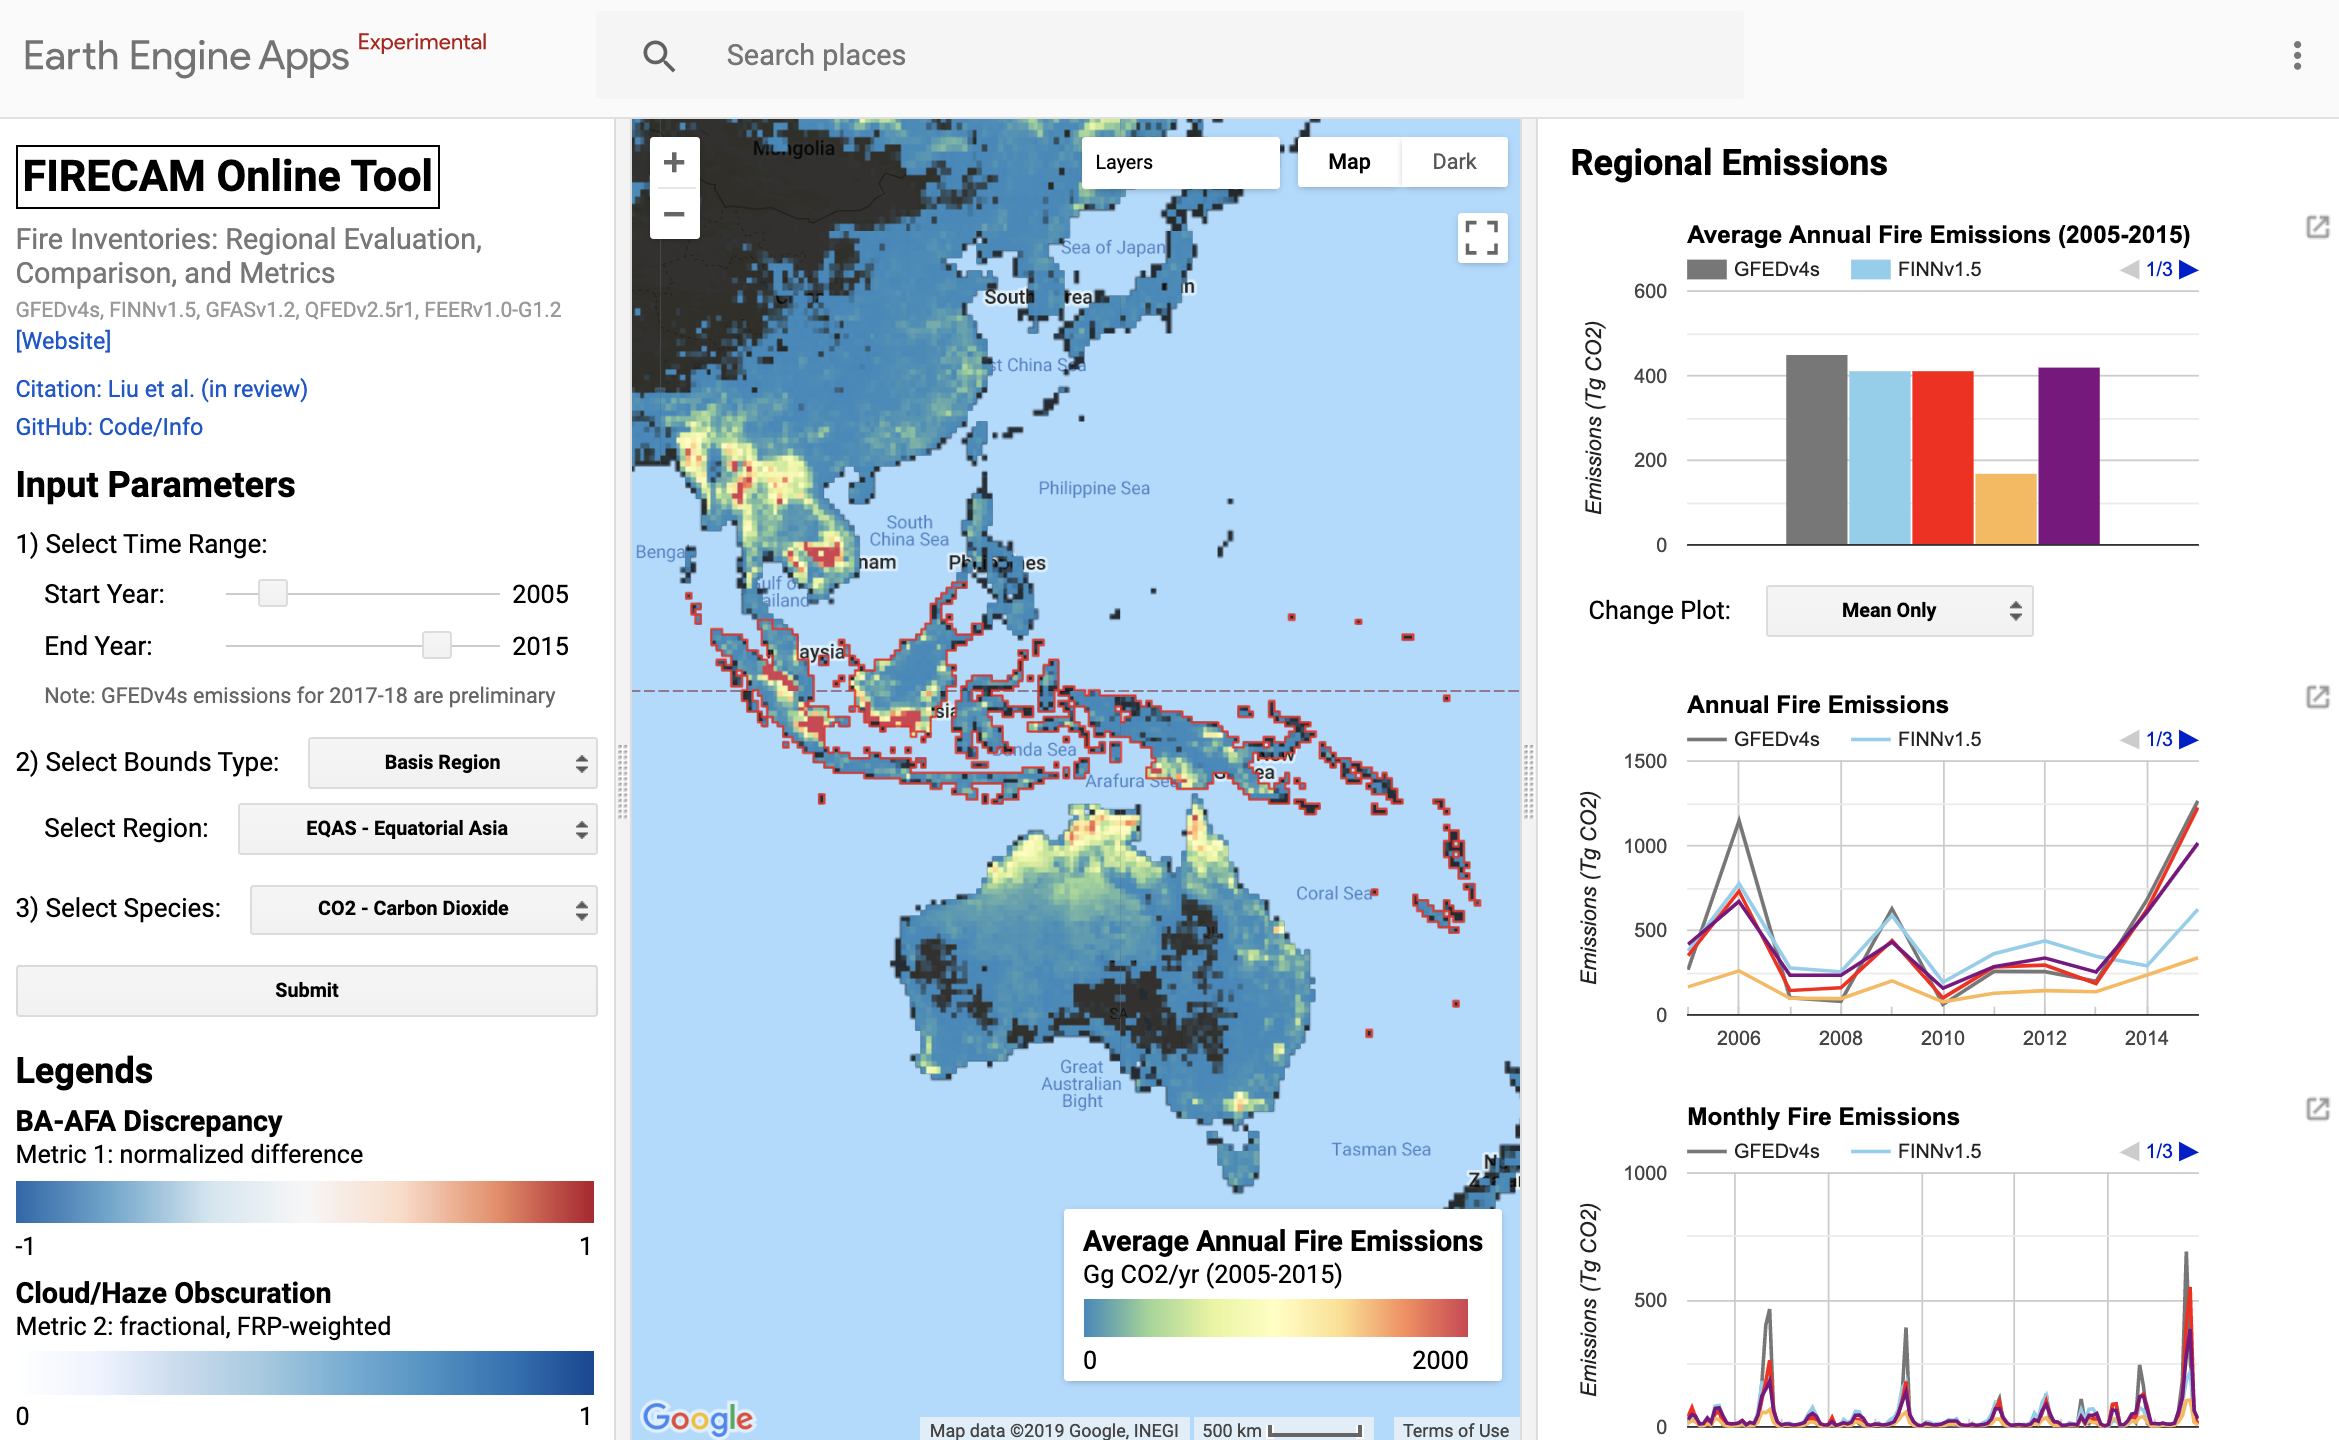
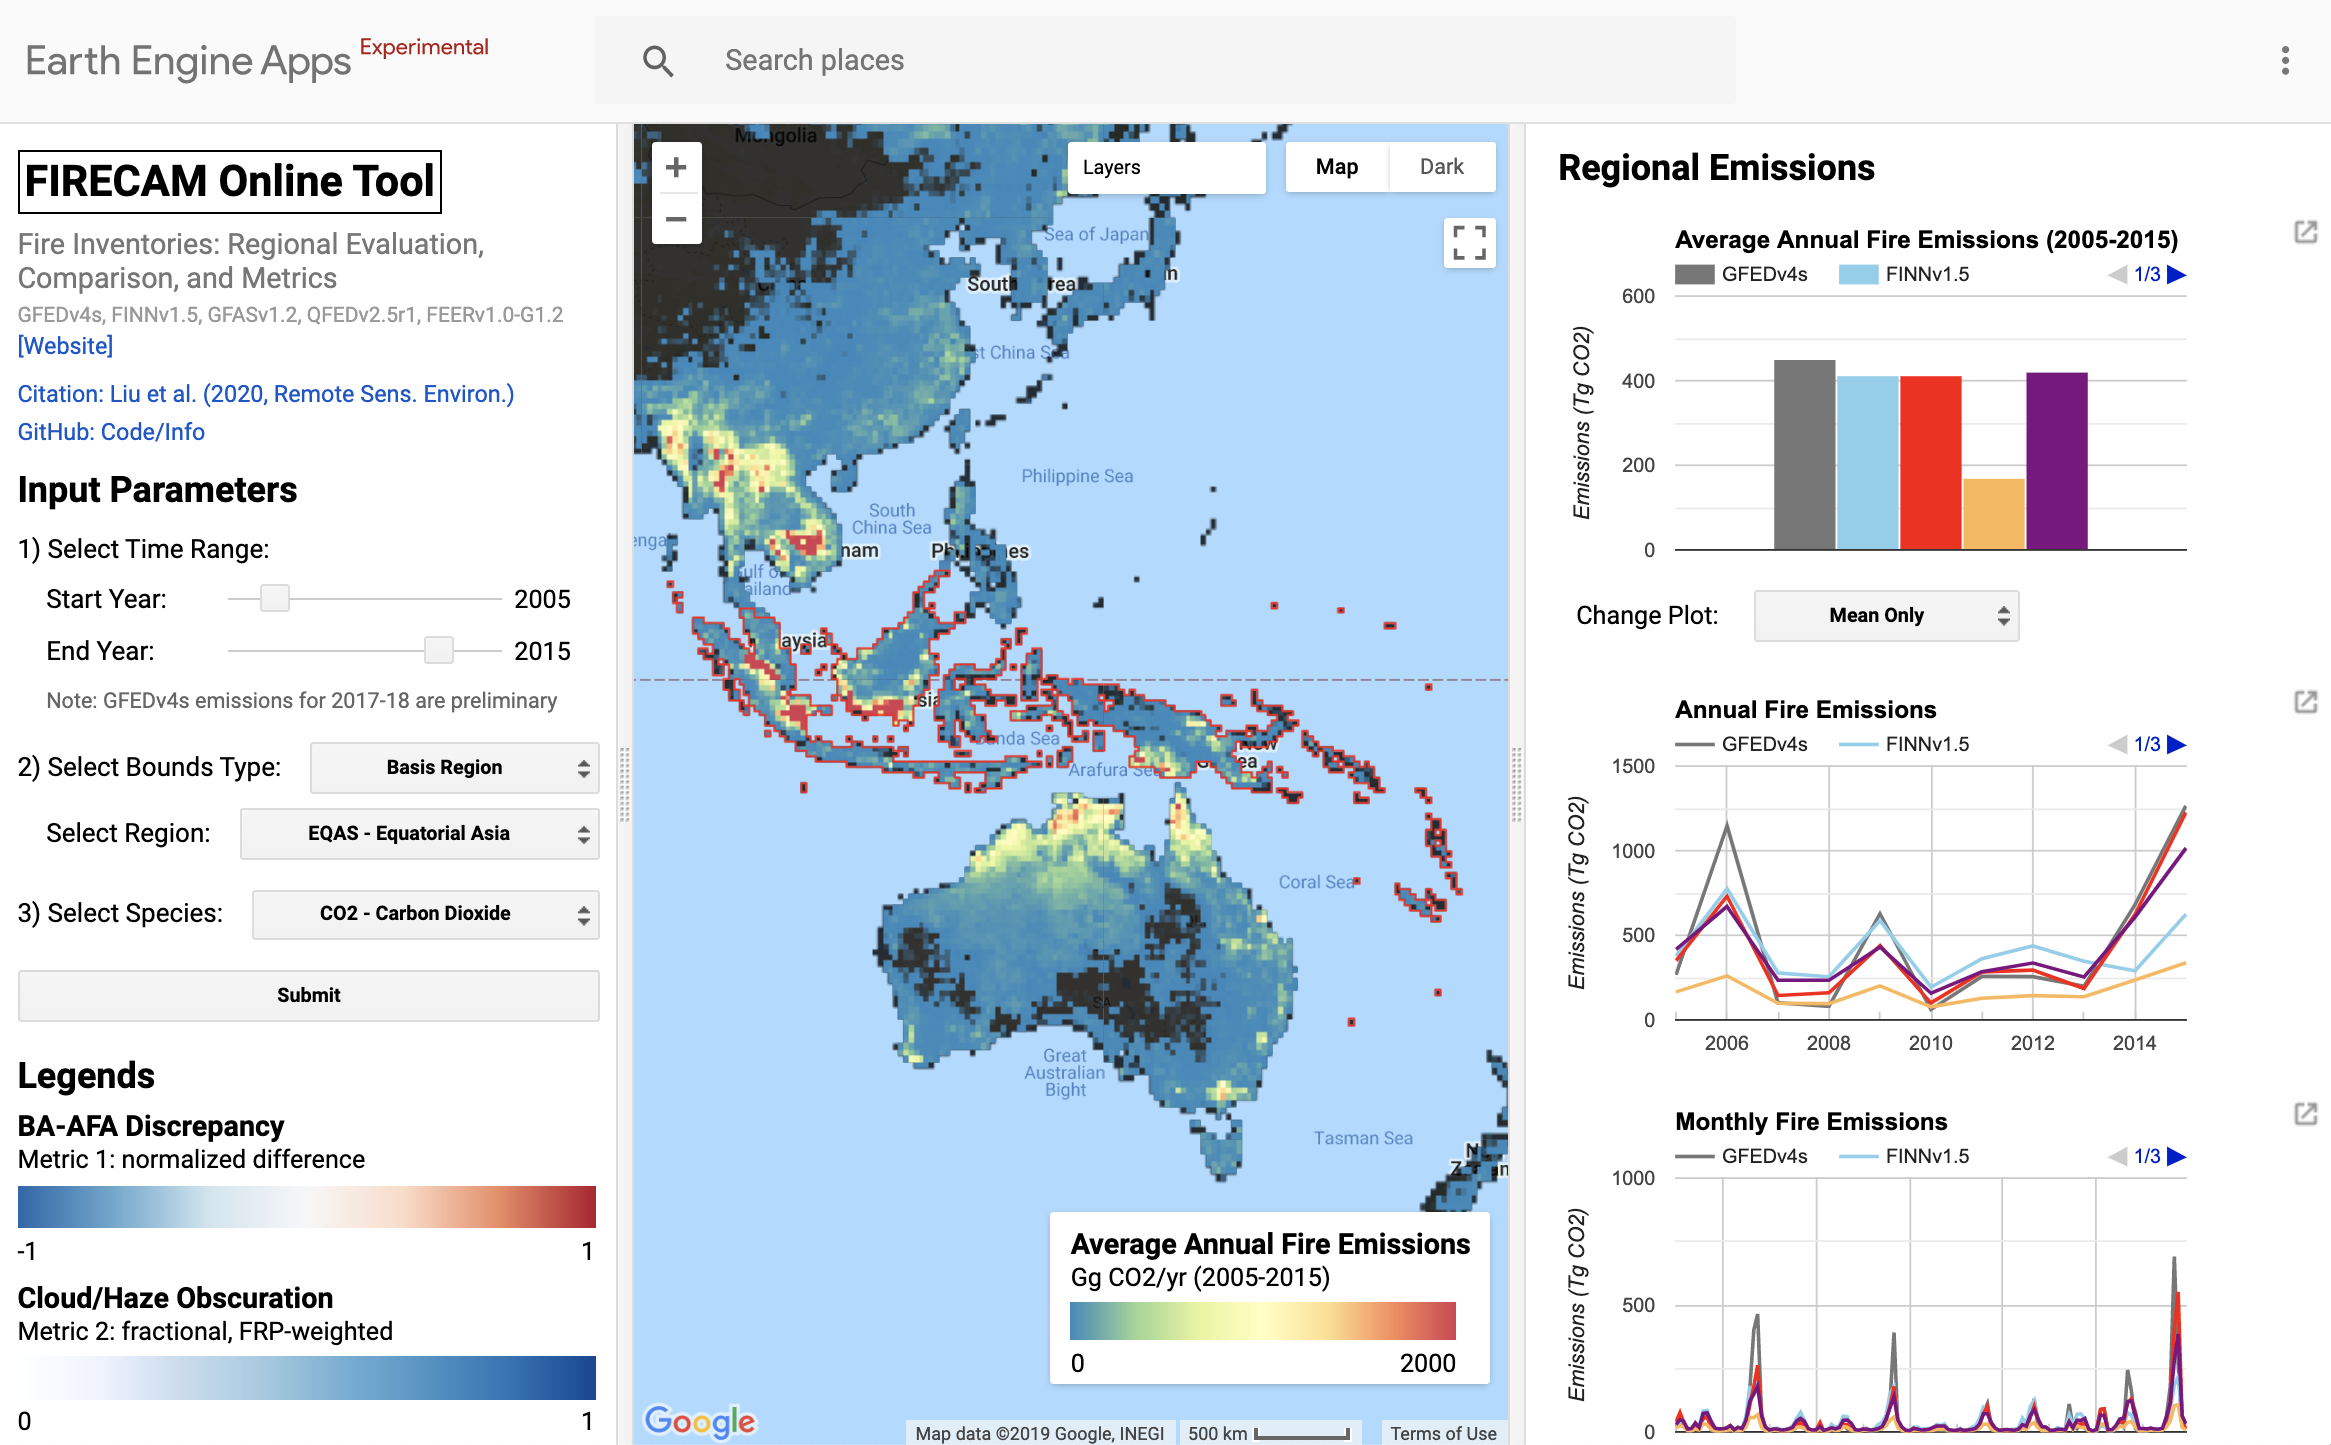
update citation

diff --git a/gee_public/FIRECAM/Apps/UI_FIRECAM.js b/gee_public/FIRECAM/Apps/UI_FIRECAM.js
@@ -6,7 +6,7 @@
 /*
 // Documentation: https://github.com/tianjialiu/FIRECAM
 // Author: Tianjia Liu
-// Last updated: October 24, 2019
+// Last updated: December 8, 2019
 
 // Purpose: explore regional differences in fire emissions from five
 // global fire emissions inventories (GFED, FINN, GFAS, QFED, FEER)
@@ -105,7 +105,7 @@ var infoPanel = function() {
   var invLabel = ui.Label('GFEDv4s, FINNv1.5, GFASv1.2, QFEDv2.5r1, FEERv1.0-G1.2', {margin: '3px 5px 0px 8px', fontSize: '11.7px', color: '#999'});
   var websiteLabel = ui.Label('[Website]', {margin: '3px 5px 3px 8px', fontSize: '13px'}, 'https://sites.google.com/view/firecam/home');
   var githubRepoLabel = ui.Label('GitHub: Code/Info', {margin: '0px 8px 5px 8px', fontSize: '13px'}, 'https://github.com/tianjialiu/FIRECAM');
-  var citationLabel = ui.Label('Citation: Liu et al. (in review)', {margin: '8px 8px 5px 8px', fontSize: '13px'}, 'https://eartharxiv.org/nh57j/');
+  var citationLabel = ui.Label('Citation: Liu et al. (2020, Remote Sens. Environ.)', {margin: '8px 8px 5px 8px', fontSize: '13px'}, 'https://doi.org/10.1016/j.rse.2019.111557');
   var inputParamsLabel = ui.Label('Input Parameters', {margin: '8px 8px 5px 8px', fontWeight: 'bold', fontSize: '20px'});
   
   return ui.Panel({
@@ -514,7 +514,8 @@ var lulcLegend = function(controlPanel, colPal) {
 // -----------
 // Plot Panel
 // -----------
-var plotPanelLabel = ui.Label('Regional Emissions', {fontWeight: 'bold', fontSize: '20px', margin: '12px 8px 8px 18px'});
+var plotPanelLabel = ui.Label('Regional Emissions', {fontWeight: 'bold', fontSize: '20px',
+  margin: '12px 8px 5px 18px', padding: '0 0 3px 0'});
 
 // -----------------------------------
 // - - - - - - UI PANELS - - - - - - |

diff --git a/gee_public/SMOKE-FIRECAM/UI_SMOKE_FIRECAM_Tool.js b/gee_public/SMOKE-FIRECAM/UI_SMOKE_FIRECAM_Tool.js
@@ -9,7 +9,7 @@
 // https://github.com/tianjialiu/FIRECAM
 
 // Author: Tianjia Liu
-// Last updated: October 2, 2019
+// Last updated: December 8, 2019
 
 // Purpose: explore how the modeled impact of Indonesian fires
 // on public health in Equatorial Asia differs in using
@@ -17,9 +17,9 @@
 // GFEDv4s, FINNv1.5, GFASv1.2, QFEDv2.5r1, FEERv1-G1.2
 
 // Citation:
-// Liu et al. (in review) Diagnosing spatial uncertainties and
+// Liu et al. (in press) Diagnosing spatial uncertainties and
 // relative biases in global fire emissions inventories:
-// Indonesia as regional case study.
+// Indonesia as regional case study. Remote. Sens. Environ.
 // EarthArXiv: https://dx.doi.org/10.31223/osf.io/nh57j
 
 // To start: click 'Run' above the code editor to initialize the
@@ -47,10 +47,10 @@
 // ------------------
 // - Publications - |
 // ------------------
-// 1. Liu et al. (in review) Diagnosing spatial uncertainties and
+// 1. Liu et al. (2020) Diagnosing spatial uncertainties and
 // relative biases in global fire emissions inventories:
-// Indonesia as regional case study.
-// EarthArXiv: https://doi.org/10.31223/osf.io/nh57j
+// Indonesia as regional case study. Remote Sens. Environ. 237, 111557.
+// https://doi.org/10.1016/j.rse.2019.111557
 
 // 2. Marlier, M.E. et al. (2019). Fires, Smoke Exposure, and Public Health:
 // An Integrative Framework to Maximize Health Benefits from Peatland Restoration.

diff --git a/gee_public/FIRECAM/Exports/UI_FIRECAM_Exports.js b/gee_public/FIRECAM/Exports/UI_FIRECAM_Exports.js
@@ -6,7 +6,7 @@
 /*
 // Documentation: https://github.com/tianjialiu/FIRECAM
 // Author: Tianjia Liu
-// Last updated: October 2, 2019
+// Last updated: December 8, 2019
 
 // Purpose: explore regional differences in fire emissions from five
 // global fire emissions inventories (GFED, FINN, GFAS, QFED, FEER)
@@ -117,7 +117,7 @@ var infoPanel = function() {
   var FIRECAMLabelLong = ui.Label('Fire Inventories: Regional Evaluation, Comparison, and Metrics', {margin: '8px 30px 0px 8px', fontSize: '16px', color: '#777'});
   var websiteLabel = ui.Label('[Website]', {margin: '3px 5px 3px 8px', fontSize: '13px'}, 'https://sites.google.com/view/firecam/home');
   var githubRepoLabel = ui.Label('GitHub: Code/Info', {margin: '0px 8px 5px 8px', fontSize: '13px'}, 'https://github.com/tianjialiu/FIRECAM');
-  var citationLabel = ui.Label('Citation: Liu et al. (in review)', {margin: '8px 8px 5px 8px', fontSize: '13px'}, 'https://eartharxiv.org/nh57j/');
+  var citationLabel = ui.Label('Citation: Liu et al. (2020, Remote Sens. Environ.)', {margin: '8px 8px 5px 8px', fontSize: '13px'}, 'https://doi.org/10.1016/j.rse.2019.111557');
   var inputParamsLabel = ui.Label('Input Parameters', {margin: '8px 8px 5px 8px', fontWeight: 'bold', fontSize: '20px'});
   
   return ui.Panel({

diff --git a/gee_public/SMOKE-FIRECAM/Modules/plotParams.js b/gee_public/SMOKE-FIRECAM/Modules/plotParams.js
@@ -19,7 +19,7 @@ exports.yearPanel = function() {
   var FIRECAM_websiteLabel = ui.Label('[FIRECAM]', {margin: '0px 0px 5px 8px', fontSize: '12.5px'}, 'https://sites.google.com/view/firecam/home');
   var websiteLabel = ui.Panel([SMOKE_websiteLabel, FIRECAM_websiteLabel],ui.Panel.Layout.flow('horizontal'));
   
-  var paperLabel = ui.Label('Citation: Liu et al. (in review)', {margin: '5px 0px 5px 8px', fontSize: '12.5px'}, 'https://eartharxiv.org/nh57j/');
+  var paperLabel = ui.Label('Citation: Liu et al. (2020, Remote Sens. Environ.)', {margin: '5px 0px 5px 8px', fontSize: '12.5px'}, 'https://doi.org/10.1016/j.rse.2019.111557');
   var githubRepoLabel = ui.Label('GitHub: Code/Info', {margin: '0px 0px 5px 8px', fontSize: '12.5px'}, 'https://github.com/tianjialiu/SMOKE-Policy-Tool');
 
   var inputSectionLabel = ui.Label('Input Parameters', {margin: '8px 8px 5px 8px', fontWeight: 'bold', fontSize: '20px'});

diff --git a/README.md b/README.md
@@ -77,7 +77,7 @@ Click the 'Apps/UI_FIRECAM.js' script in the 'users/tl2581/FIRECAM' repository. 
 * May 2019: added R/EE code for calculating the relative fire confidence metrics under the "fire_metrics" subfolder; added "Global" and "Custom" options to FIRECAM, GFEDv4s apps
 
 ## Publications
-1. Liu, T., L.J. Mickley, R.S. DeFries, M.E. Marlier, M.F. Khan, M.T. Latif, and A. Karambelas (in review). Diagnosing spatial uncertainties and relative biases in global fire emissions inventories: Indonesia as regional case study. *EarthArXiv*: https://doi.org/10.31223/osf.io/nh57j
+1. Liu, T., L.J. Mickley, R.S. DeFries, M.E. Marlier, M.F. Khan, M.T. Latif, and A. Karambelas (2020). Diagnosing spatial uncertainties and relative biases in global fire emissions inventories: Indonesia as regional case study. *Remote Sens. Environ.* 237, 111557. https://doi.org/10.1016/j.rse.2019.111557
 
 2. van der Werf, G.R., J.T. Randerson, L. Giglio, T.T. van Leeuwen, Y. Chen, B.M. Rogers, M. Mu, M.J.E. van Marle, D.C. Morton, G.J. Collatz, R.J. Yokelson, and P.S. Kasibhatla (2017). Global fire emissions estimates during 1997-2016. *Earth Syst. Sci. Data* 9, 697–720. https://doi.org/10.5194/essd-9-697-2017
 

diff --git a/fire_metrics/README.md b/fire_metrics/README.md
@@ -46,4 +46,4 @@ gee_basis/
 | 5 | VIIRS FRP Outside MODIS Burn Extent | 0 to 1 | unitless | additional small fires from VIIRS (375 m), a sensor with higher spatial resolution than MODIS (500 m, 1 km) |
 
 ## Publications
-1. Liu, T., L.J. Mickley, R.S. DeFries, M.E. Marlier, M.F. Khan, M.T. Latif, and A. Karambelas (in review). Diagnosing spatial uncertainties and relative biases in global fire emissions inventories: Indonesia as regional case study. *EarthArXiv*: https://doi.org/10.31223/osf.io/nh57j
+1. Liu, T., L.J. Mickley, R.S. DeFries, M.E. Marlier, M.F. Khan, M.T. Latif, and A. Karambelas (2020). Diagnosing spatial uncertainties and relative biases in global fire emissions inventories: Indonesia as regional case study. *Remote Sens. Environ.* 237, 111557. https://doi.org/10.1016/j.rse.2019.111557
